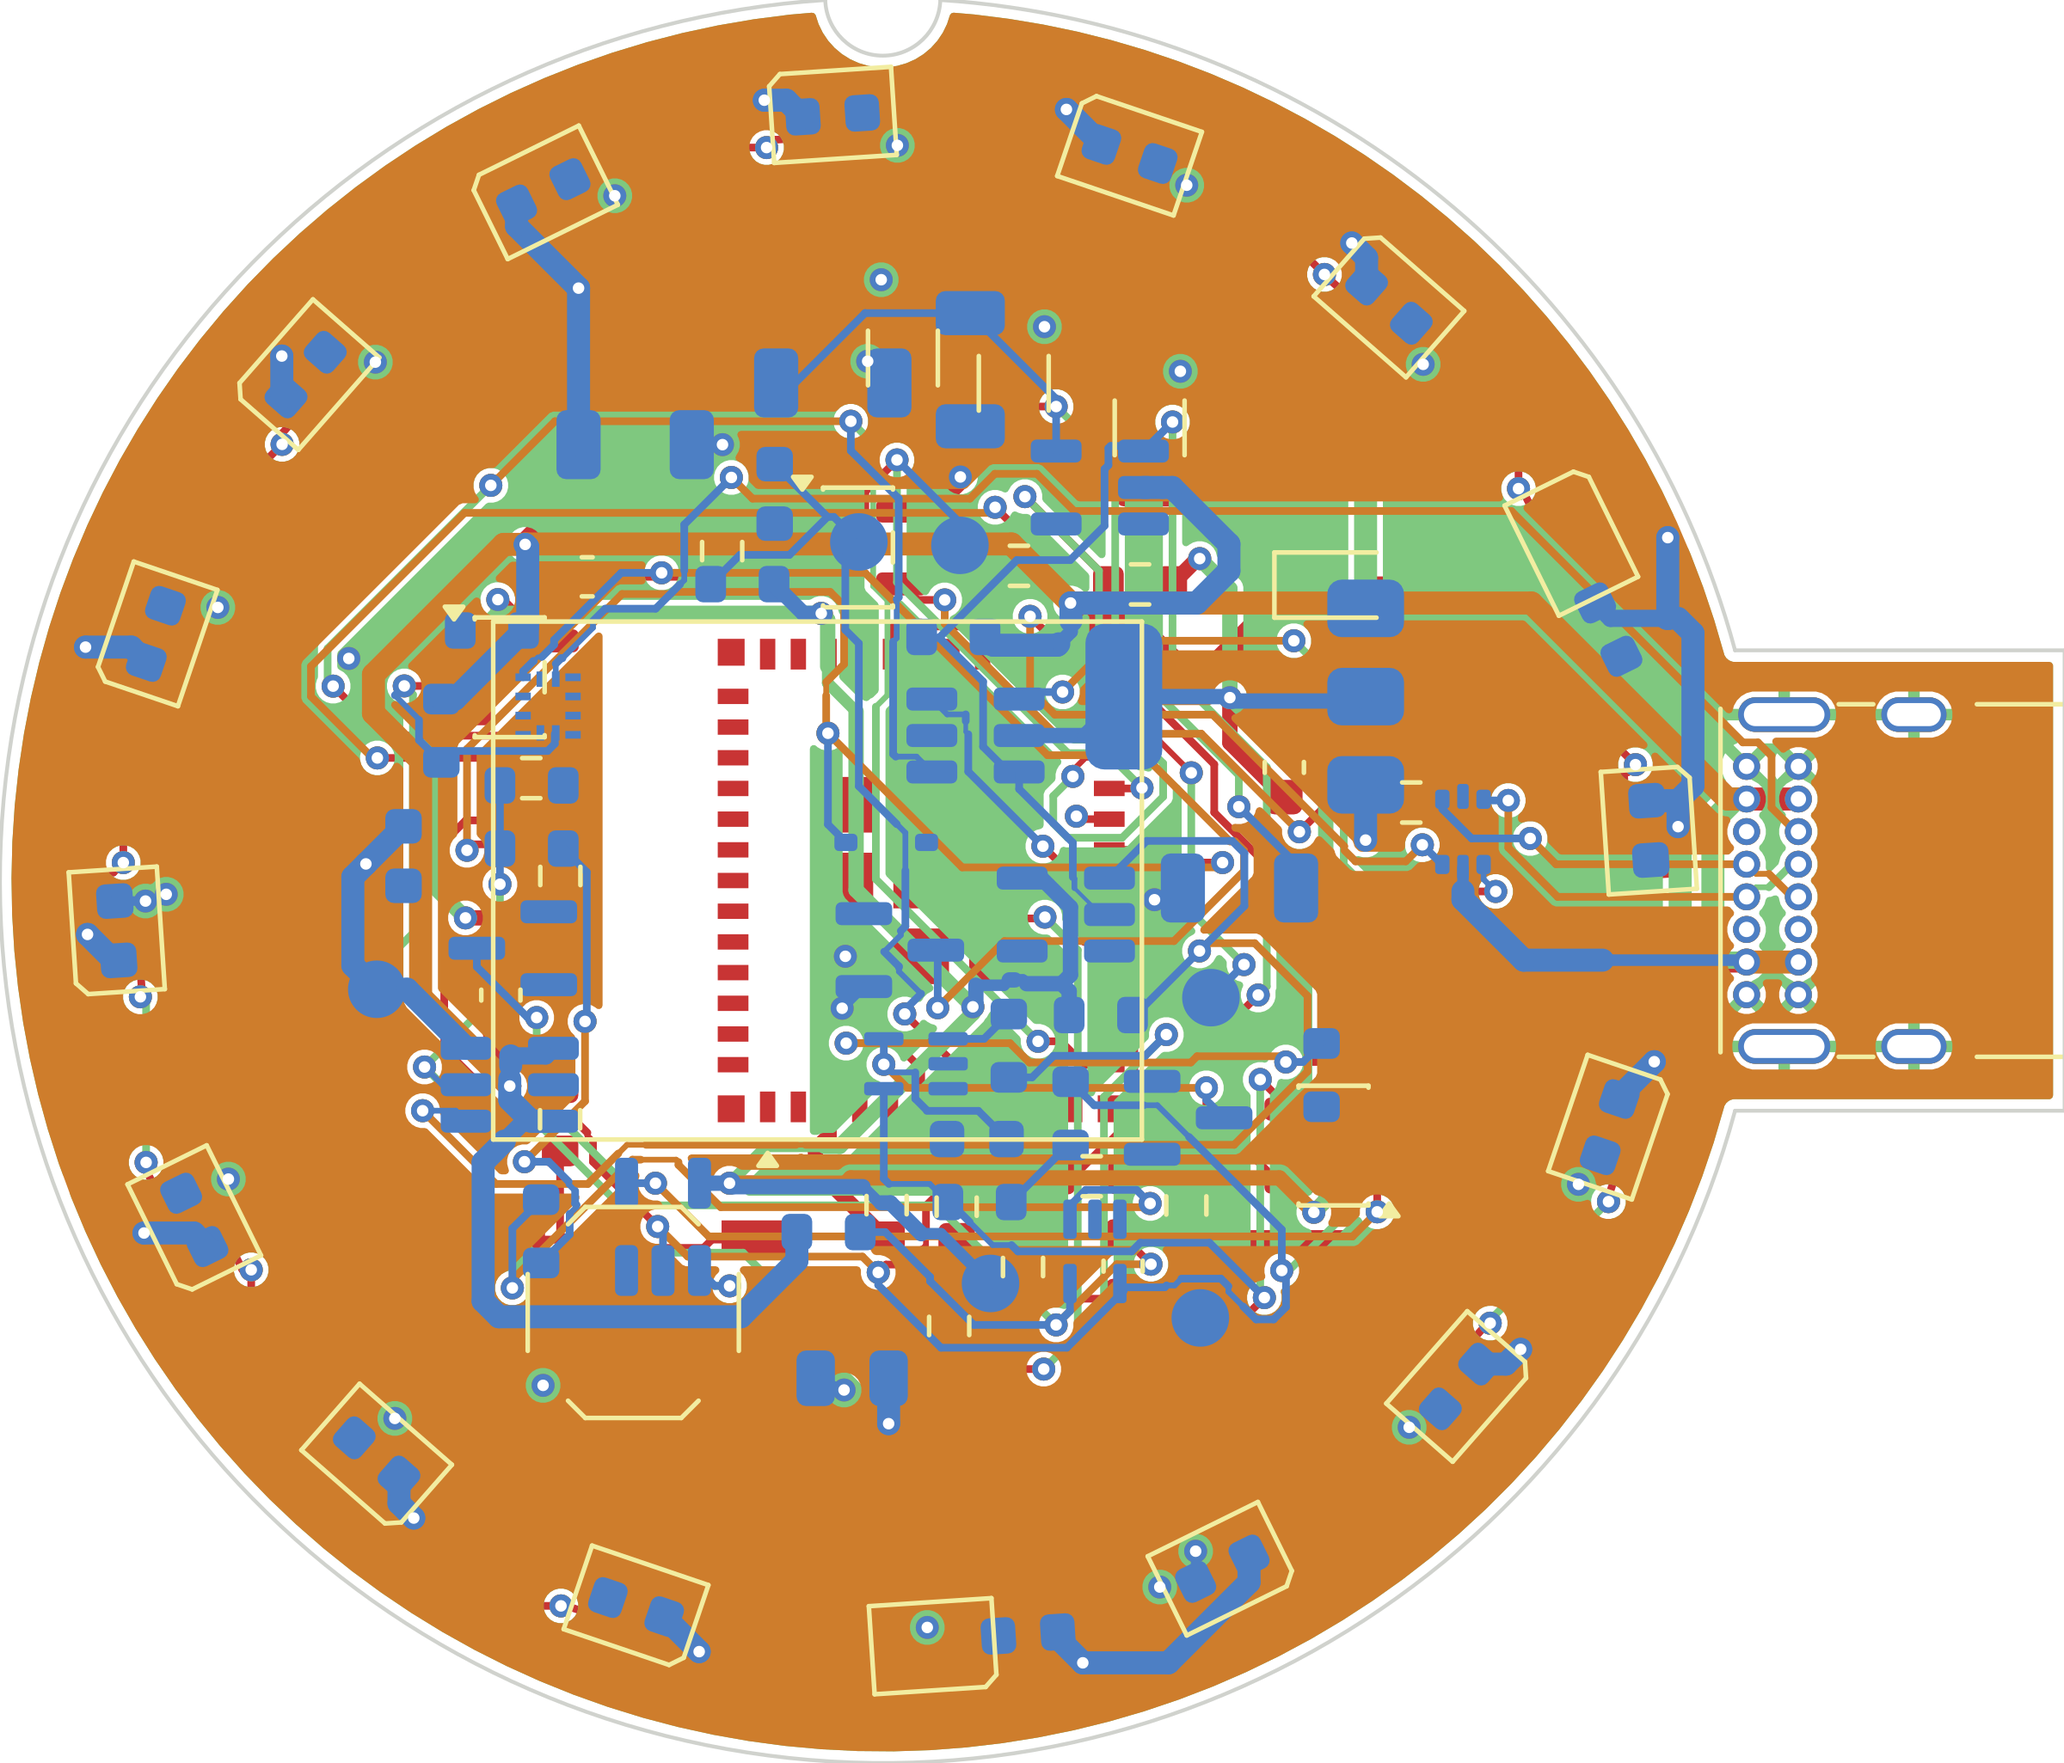
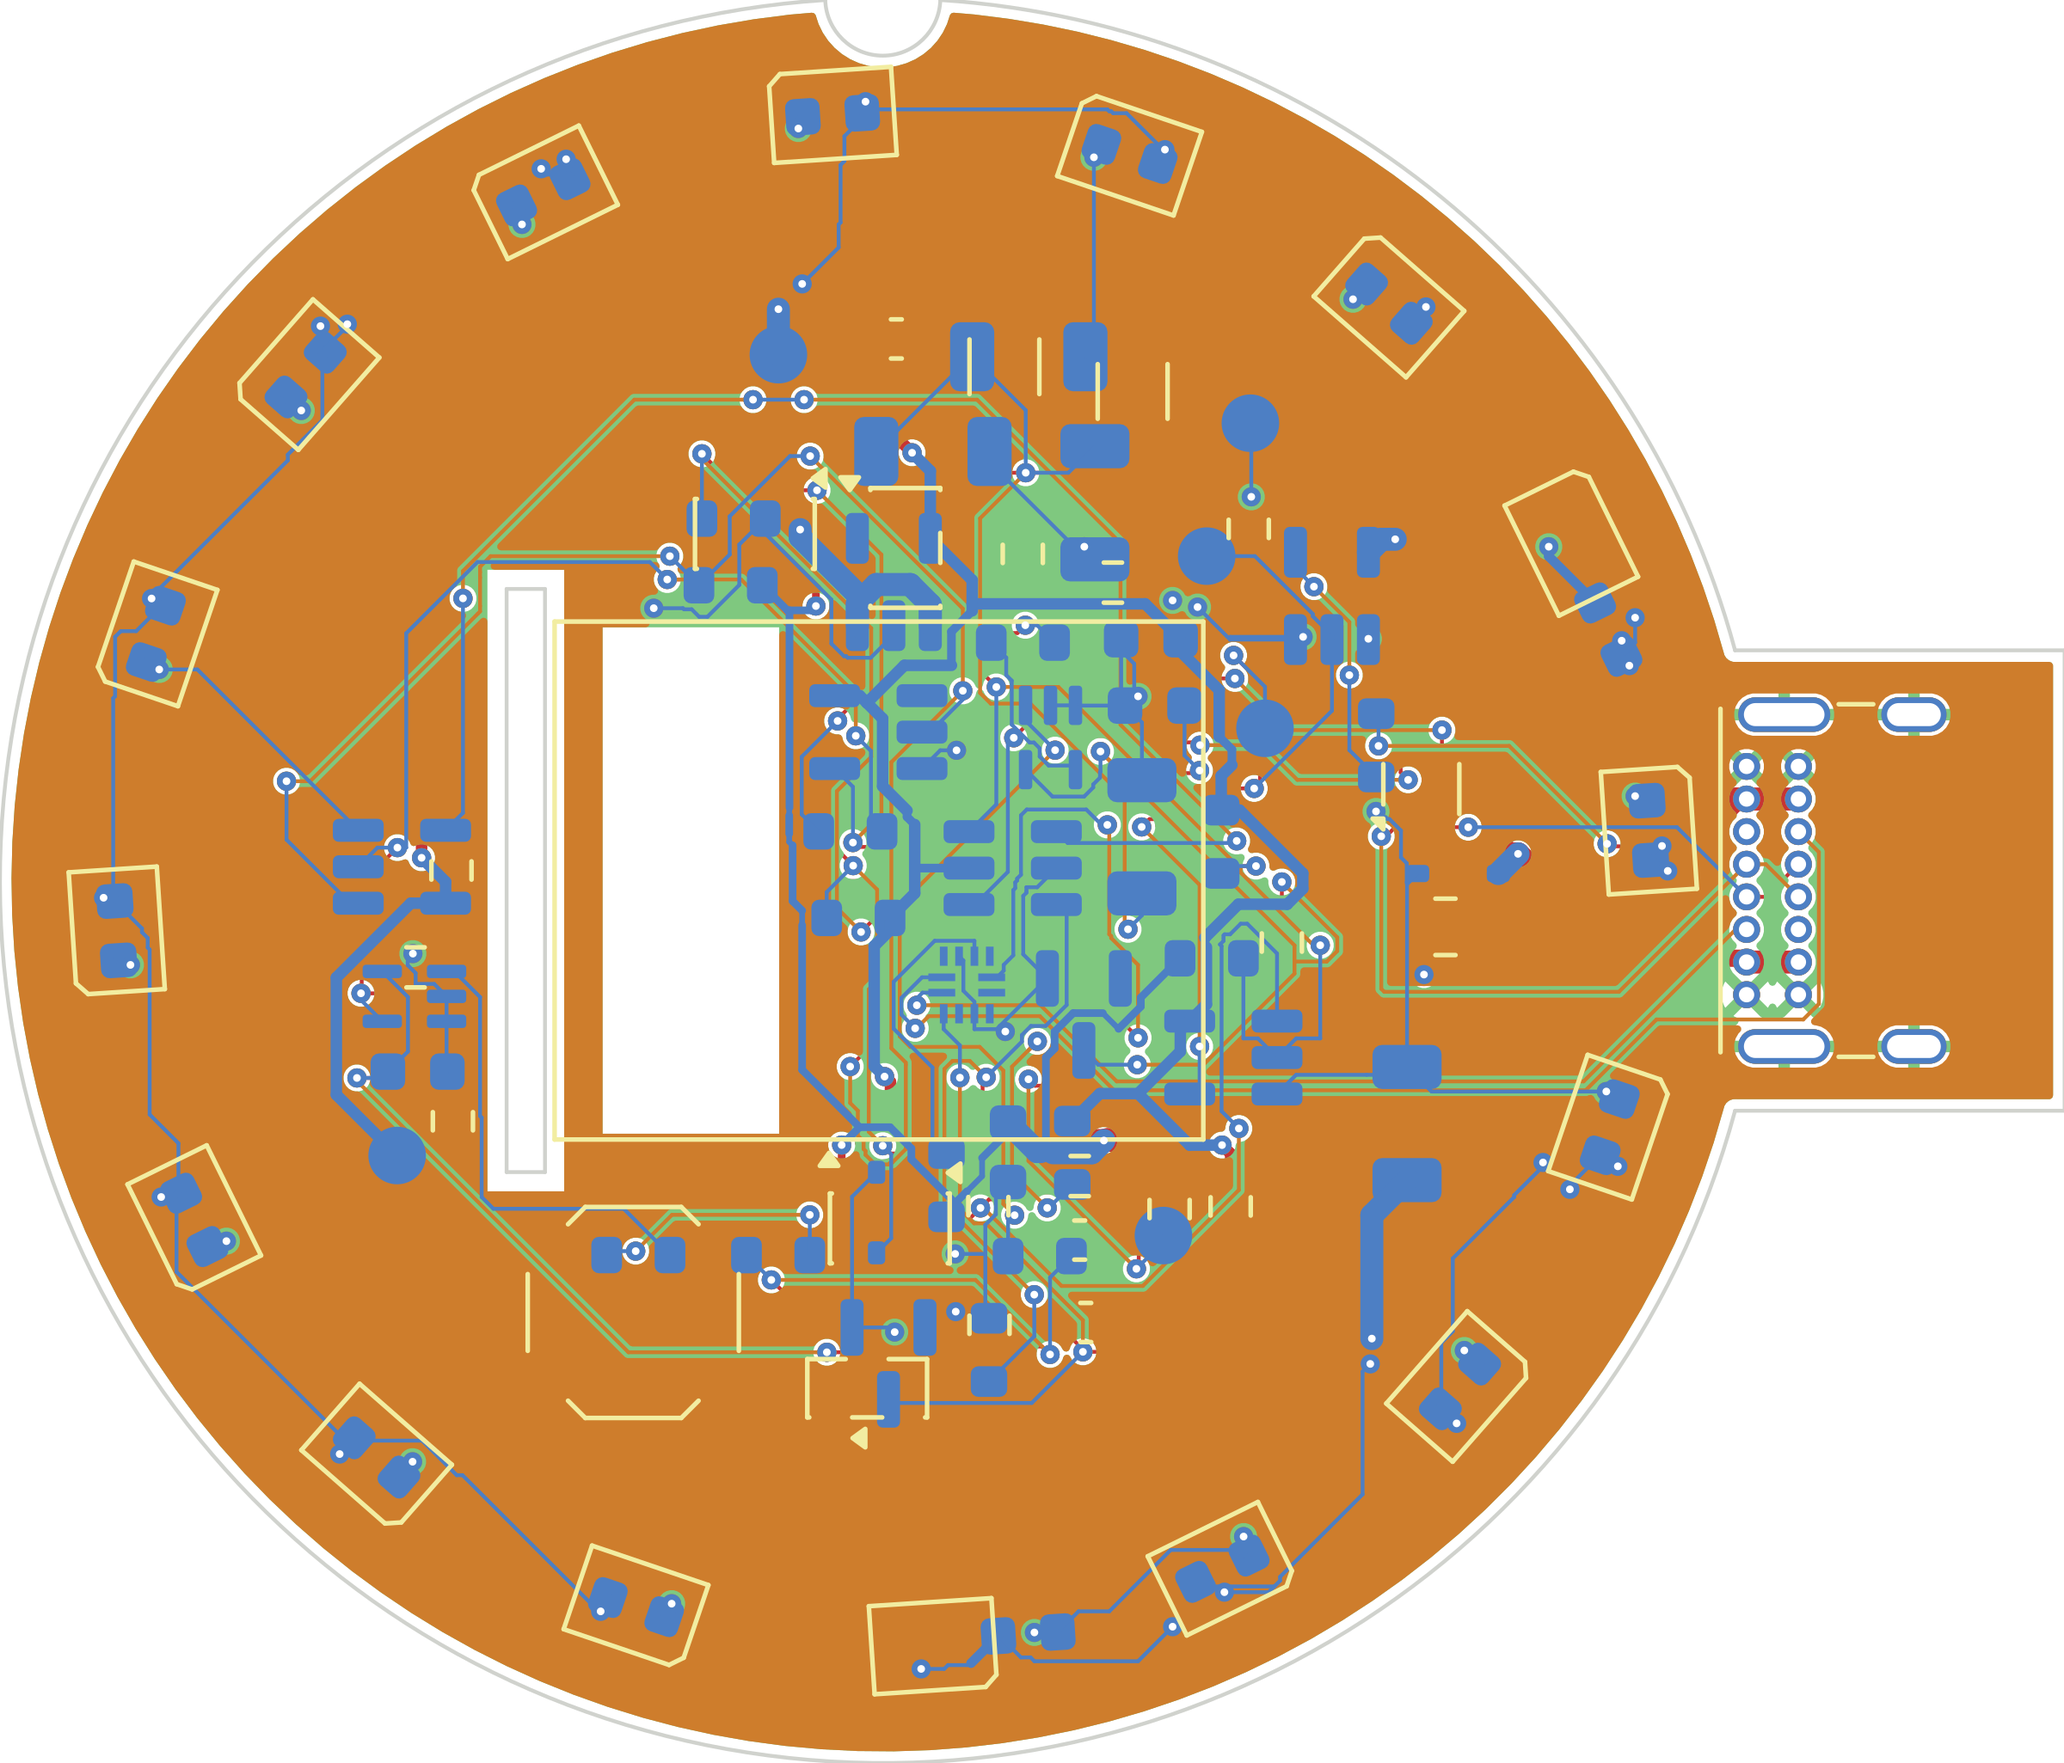
docs: spike report (ring4 to ring6 batches, power drops), README images and captions from the best of 12 runs, CHANGELOG (HW-010)
Claude-Session: https://claude.ai/code/session_01NnNc9CXaSMwmsPGCK65UHv

diff --git a/docs/verification/reports/spike-pcb-placement-routing.md b/docs/verification/reports/spike-pcb-placement-routing.md
@@ -270,3 +270,39 @@ All runs: same netlist, 4 layers, Freerouting 2.5.0, KiCad 10.0.6, strict check 
 - Power check on that board (15.2 um inner copper): VBUS_IC 39.6 mOhm, 59.3 mV at 1.5 A (above my 50 mV target, an analyst value; not a requirement), +3V3 24.2 mV at 0.5 A, +5V 11.8 mV at 1.0 A.
 - Not run: the batch with the annular ring raised to the recommended 0.20 mm; a fabricator DFM check; other fabricators; thermal; antenna and RF; a repeat of this result (2 of 4 runs complete on exB, not a guarantee); the VBUS_IC path is not yet widened or shortened.
 - Decision draft: `docs/decisions/ADR-0020-pcb-fab-rules-and-inner-layer-use.md` (Proposed).
+
+## Update 2026-11-08 (late): generated LED ring cells, pin swap check
+
+- Ring cells (`src/pcb_ring.py`, tests `tests/test_pcb_ring.py`, 4 tests): the 16 LEDs on the top layer and their bypass capacitors on the bottom layer form one cell each; the capacitor is turned so its +5V pad lies under the LED +5V pad (14 of 16 cells within 1 mm; D2 and D13 are shifted by the placement). Per cell: +5V and GND, LED pad to via to capacitor pad (grid router of `pcb_fix.py`, outer layers only, 0.25 mm stubs; the vias meet the In2 and In1 planes), and the data link DOUT to the next DIN (15 links, 0.1 or 0.15 mm). All 47 links complete on the placed board; no clearance, hole, edge or width finding in the test. The ring is locked before the autorouter runs; the router does not see the +5V pads of the ring (`RING=1`, default; the DSN export blanks them).
+- Effect (12 and 8 run batches, fine rules, signals off In1): complete runs 2 of 8 (first batch) and 3 of 8 (second batch); the strict gate leaves one or two small findings on each complete run (dangling track, off-centre track end on a via, silk). VBUS_IC drops 37.8 mV at 1.5 A on the best run of the first batch (was 59 mV without the ring cells) and 44.8 mV on the best of the second; +5V plane in 1 piece, 18.7 to 28 % removed; GND plane 1 piece, 11.5 % removed, no signal track.
+- Pin swaps: the module pads of the eight movable GPIOs (GPIO0, 3, 4, 5, 6, 7, 10; GPIO1 and 4 are reserved for the sensor) were tested over all assignments on the placed board, wire length (half perimeter) 77.4 mm now, best 75.2 mm: a 3 % gain. The pin map is written into HW-010 and the ADRs. Not changed.
+- Picker: `pcb_pick.py` ranks runs by open items, then by the FAIL lines of the strict gate; `run_best.sh` copies the libraries with the best board.
+- Not run: a batch that finishes with the strict gate clean (running when this was written); fabricator DFM check; antenna and RF checks; thermal check.
+
+## Update 2026-11-08 (end of day): 12 runs with the ring cells and the strict-gate picker
+
+- `run_best.sh`, 12 runs, fine rules, ring cells, signals off In1: open items after the clean-up 2, 8, **0**, 3, **0**, **0**, 3, 7, 1, 1, 4, **0**; strict FAIL lines per run 4, 3, 1, 2, 2, 3, 3 ...; 4 of 12 runs have no open item.
+- Best run (run 3): 0 open items; one strict FAIL left: `connection_width` 1 (a ground neck under 0.1 mm); everything else tolerated (courtyards_overlap 14, items_not_allowed 1 on U9, footprint_symbol_mismatch 8, net_conflict 77). VBUS_IC 37.8 mOhm, 56.6 mV at 1.5 A on this run (the best runs of the other batches gave 37.8 and 44.8 mV; the value varies from run to run), +3V3 35.6 mV at 0.5 A, +5V 9.7 mV at 1.0 A. GND plane 1 piece, 11.7 % removed, no signal track; +5V plane 1 piece, 26 % removed.
+- After the batch: `connection_width` was added to the findings the clean-up removes and routes again (`pcb_fix.RIPUP_KINDS`); not rerun. So no run passes the whole strict gate yet; the nearest has one warning.
+- Not run: the batch with that change; the VBUS_IC path is not yet fixed by constraint (drop varies 38 to 59 mV against my 50 mV target); fabricator DFM check; antenna and RF; thermal.
+
+## Update 2026-11-08 (late): `connection_width` clean-up and power-path ties (HW-010)
+
+Fine rules, ring cells, 12 runs per batch, same inputs (`full7`). Evidence: `ring4.log`, `ring5.log` in the session scratchpad (not committed).
+
+| Batch | Change | Runs with 0 open items | Runs with 0 strict findings | Best run | Drops VBUS_IC / +5V / +3V3 (mV) |
+|---|---|---|---|---|---|
+| ring4 | `connection_width` added to the rip-up kinds | 4 of 12 (runs 3, 5, 6, 9) | 1 (run 3) | run 3: gate clean (waived items only) | 38.8 / 8.9 / 56.6 |
+| ring5 | plus soft placement ties J1 A4, J1 B9, C2.1 to U7.1 (weight 3) and U8.5 to U9.3 (weight 6) | 1 of 12 (run 4) | 0 | run 4: 0 open, 3 strict warnings (`silk_over_copper` 1, `track_dangling` 1, `track_not_centered_on_via` 1) | 9.5 / 13.0 / 18.1 |
+
+Reading: the ties cut every drop by a factor of 2 to 3 (the +3V3 drop falls from 56.6 to 18.1 mV, below the 50 mV analyst target), but routing completion got worse in this batch (12 runs only; Freerouting is not deterministic, so the difference may be partly chance). The 50 mV target is an analyst assumption, not a requirement. The ring5 best run is not gate-clean; the ring4 best run is, but its +3V3 drop is above the target. Not run: lower tie weights, more runs.
+
+### ring6: tie weights halved (VBUS_IC ties 1.5, +3V3 tie 3.0)
+
+12 runs, same inputs. Evidence: `ring6.log` (session scratchpad, not committed).
+
+| Runs with 0 open items | Runs with 0 strict findings and 0 hard findings | Best run | Drops VBUS_IC / +5V / +3V3 (mV) | GND plane | +5V plane |
+|---|---|---|---|---|---|
+| 4 of 12 (runs 3, 4, 5, 6) | 2 (runs 4 and 6) | run 4 | 16.5 / 19.9 / 41.5 | 1 piece, 11.8 % removed | 1 piece, 22.4 % removed |
+
+Reading: the halved ties keep routing completion at the ring4 level and still bring all three drops under the 50 mV analyst target (an assumption, not a requirement). This is the chosen setting. One batch only; Freerouting is not deterministic. Not run: antenna/RF, thermal, fab DFM check of the result.

diff --git a/README.md b/README.md
@@ -117,7 +117,7 @@ All images are generated from text sources or tool exports; none is hand-drawn. 
 | Board, 4 layers, top view (3D render) | Board, all copper layers and silkscreen |
 |---|---|
 | <img src="docs/verification/reports/images/spike-pcb-4layer-top3d.png" alt="Round green board with a ring of 16 square LED footprints, an ESP32 module, a button and a USB-C receptacle tab on the right" width="420"> | <img src="docs/verification/reports/images/spike-pcb-4layer-layers.png" alt="Copper layers of the round board in colour: ground pours, tracks and vias" width="420"> |
-| Generated by script from the schematic netlist on the outline of the mechanical spike, routed with Freerouting v2.5.0. The netlist now has the AND gate and the supply-pin protection. | One run, two stages (routing is not deterministic). Freerouting started with 266 unrouted connections and ended with **48 unrouted** and 0 violations of its own rules. After plane stitching, KiCad reports **247 findings in total: 46 design-rule violations, 86 unconnected items on 4 nets** (+5V is clear; /CC1, /GATE_OK_RB, GND and one 887 k net remain) and 110 schematic-parity warnings (the placeholder box symbols and stand-in footprints). The strict waiver check **fails**: 86 unconnected items, 6 track-width errors, 9 dangling vias and 1 hole-to-hole warning are not on the waiver list. A spike result, **not** a clean board. |
+| Generated by script from the schematic netlist on the outline of the mechanical spike. The 16 LED cells (one 2020 LED with its capacitor) are placed and routed as a symmetric ring by script; the rest is routed with Freerouting v2.5.0 (fine rules, 0.1 mm tracks, see ADR-0020, Proposed). | One run, picked as the best of 12 (routing is not deterministic). **0 unconnected items, 0 hard findings.** The strict check lists 98 findings, all in the classes that the waiver list tolerates: 12 courtyard overlaps and 1 item inside the rule area (ESP32 antenna keep-out), 8 symbol mismatches and 77 net conflicts (stand-in footprints and symbols). Power paths (analyst assumptions of 1.5, 1.0 and 0.5 A): 16.5, 19.9 and 41.5 mV drop. Not run: antenna/RF, thermal, fab DFM check. A spike result, **not** a reviewed board. |
 
 Regenerate with [`hw/kicad/spike-gate/render_readme_images.sh`](hw/kicad/spike-gate/render_readme_images.sh). The 3D render has no component models for most parts and is not a fit check. See [`spike-pcb-placement-routing.md`](docs/verification/reports/spike-pcb-placement-routing.md).
 

diff --git a/CHANGELOG.md b/CHANGELOG.md
@@ -10,6 +10,13 @@ Hardware and mechanical revisions are named in the entries (for example "hardwar
 
 ## [Unreleased]
 
+### Added
+- Skill `pcb-route-and-gate` (order of work, gate and lessons for the spike board), reviewed by goldfish (RV-012).
+
+### Changed
+- README images and captions of the hardware spike regenerated from the best of 12 runs (HW-010).
+- Hardware spike PCB placement: soft ties pull the VBUS_IC and +3V3 current paths together (weights 1.5 and 3.0; in one 12-run batch two boards pass the strict gate and all power drops are under the 50 mV assumption); clean-up re-routes `connection_width` findings (HW-010).
+
 ### Fixed
 - Hardware spike PCB gate: wires under 0.15 mm (default track now 0.15 mm), dangling vias (removed), hole-to-hole of stitch vias, silk findings (waiver DEV-006, declined by the owner 2026-11-08, off by default); the stitcher joins pads to existing ground vias, layer by layer, in retry passes; 6 new tests. Antenna strip set to the 4.6 mm of the ESP32-C3-MINI-1 datasheet and the module pad area placed outside it (the 21 unconnected module ground pads are gone); 1 mm slot beside the antenna end with a copper keep-out. Placement: VBUS_IC weight and movable-part radius 17.3 mm; +3V3 track 0.3 mm; optional two-pass routing (`KEYFIRST`, `FR_THREADS` in `run_pcb.sh`). VBUS_IC main path (J1, TPS2553 input, C2, TVS1) routed first at 0.6 mm and locked, branches at 0.2 mm (`KEYFIRST=1`); via removal keeps layer changes. Post-route clean-up `src/pcb_fix.py` (grid router for the leftover connections, rip-up of clearance findings, stub removal), 6 tests: on run pl8 the final board has 1 unconnected item (/ILIM) and only the tolerated known findings; the Freerouting step still varies between runs, so the board is not complete and the full flow is not proven repeatable (HW-010, HW-005, ADR-0003, ADR-0012).
 - Hardware spike gate: ERC and DRC project files switch on the default-ignored checks (ignored-check maxima now 0); ERC has 0 findings; six repeat routing runs gave 2 complete boards (0 open items) and 4 with 1 to 3 open items; the LED stand-in footprint-filter finding is waived under DEV-002 (HW-010, ADR-0012, DEV-002).
